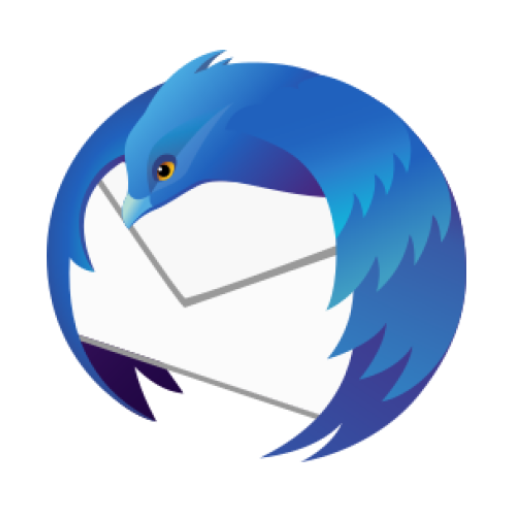
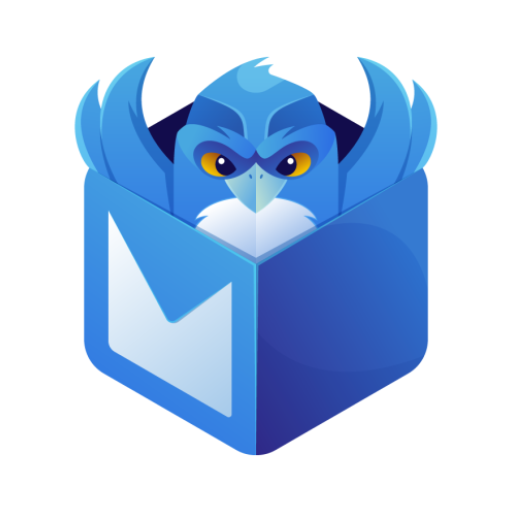
support the latest sdk and change app name

diff --git a/app/src/main/java/tech/ula/birdbox/MainActivity.kt b/app/src/main/java/tech/ula/birdbox/MainActivity.kt
@@ -1,4 +1,4 @@
-package tech.ula.thunderbird
+package tech.ula.birdbox
 
 import android.content.Intent
 import android.os.Bundle
